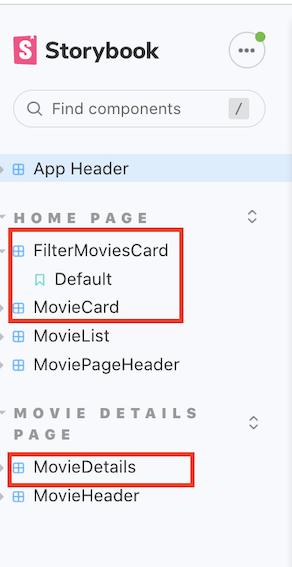
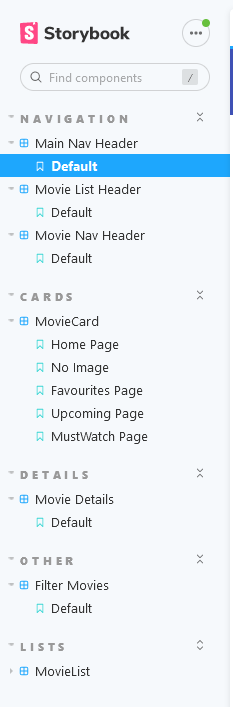
Updated readme and storybook

diff --git a/src/stories/Cards-movieCard.stories.js b/src/stories/Cards-movieCard.stories.js
@@ -1,16 +1,17 @@
 import React from "react";
 import MovieCard from "../components/movieCard";
-import SampleMovie from "./sampleData";
+import SampleMovie from "./sampleMovie";
 import { MemoryRouter } from "react-router";
 import MoviesContextProvider from "../contexts/moviesContext";
 import { action } from "@storybook/addon-actions";
 import AddToFavouritesIcon from "../components/cardIcons/addToFavourites";
 import AddToMustWatchIcon from "../components/cardIcons/addToMustWatch";
-import WriteReviewIcon from "../components/cardIcons/writeReview";
 import RemoveFromFavourites from "../components/cardIcons/removeFromFavourites";
+import MyReviewIcon from "../components/cardIcons/myReview";
+import RemoveFromMustWatch from "../components/cardIcons/removeFromMustWatch";
 
 export default {
-  title: "Home Page/MovieCard",
+  title: "Cards/MovieCard",
   component: MovieCard,
   decorators: [
     (Story) => <MemoryRouter initialEntries={["/"]}>{Story()}</MemoryRouter>,
@@ -27,7 +28,7 @@ export const HomePage = () => {
           <>
             <AddToFavouritesIcon movie={movie} />
             <AddToMustWatchIcon movie={movie} />
-            <WriteReviewIcon movie={movie} />
+            <MyReviewIcon movie={movie} />
           </>
         );
       }}
@@ -47,7 +48,7 @@ export const NoImage = () => {
           <>
             <AddToFavouritesIcon movie={movie} />
             <AddToMustWatchIcon movie={movie} />
-            <WriteReviewIcon movie={movie} />
+            <MyReviewIcon movie={movie} />
           </>
         );
       }}
@@ -65,7 +66,7 @@ export const FavouritesPage = () => {
         return (
           <>
             <RemoveFromFavourites movie={movie} />
-            <WriteReviewIcon movie={movie} />
+            <MyReviewIcon movie={movie} />
           </>
         );
       }}
@@ -91,3 +92,20 @@ export const UpcomingPage = () => {
   );
 };
 UpcomingPage.storyName = "Upcoming Page";
+
+export const MustWatchPage = () => {
+  return (
+    <MovieCard
+      movie={SampleMovie}
+      action={(movie) => {
+        return (
+          <>
+            <RemoveFromMustWatch movie={movie} />
+          </>
+        );
+      }}
+      taging={(movie) => null}
+    />
+  );
+};
+MustWatchPage.storyName = "MustWatch Page";

diff --git a/src/stories/Lists-MovieList.stories.js b/src/stories/Lists-MovieList.stories.js
@@ -1,14 +1,16 @@
 import React from "react";
 import MovieList from "../components/movieList";
-import SampleMovie from "./sampleData";
+import SampleMovie from "./sampleMovie";
 import { MemoryRouter } from "react-router";
 import { action } from "@storybook/addon-actions";
-import AddToFavoritesIcon from "../components/cardIcons/addToFavourites";
 import Grid from "@material-ui/core/Grid";
 import MoviesContextProvider from "../contexts/moviesContext";
+import AddToFavouritesIcon from "../components/cardIcons/addToFavourites";
+import AddToMustWatchIcon from "../components/cardIcons/addToMustWatch";
+import MyReviewIcon from "../components/cardIcons/myReview";
 
 export default {
-  title: "Home Page/MovieList",
+  title: "Lists/MovieList",
   component: MovieList,
   decorators: [
     (Story) => <MemoryRouter initialEntries={["/"]}>{Story()}</MemoryRouter>,
@@ -28,7 +30,15 @@ export const Basic = () => {
     <Grid container spacing={5}>
       <MovieList
         movies={movies}
-        action={(movie) => <AddToFavoritesIcon movie={movie} />}
+        action={(movie) => {
+          return (
+            <>
+              <AddToFavouritesIcon movie={movie} />
+              <AddToMustWatchIcon movie={movie} />
+              <MyReviewIcon movie={movie} />
+            </>
+          );
+        }}
       />
     </Grid>
   );

diff --git a/src/stories/Details-MovieDetails.stories.js b/src/stories/Details-MovieDetails.stories.js
@@ -1,11 +1,11 @@
 import React from "react";
 import MovieDetails from "../components/movieDetails";
-import SampleMovie from "./sampleData";
+import SampleMovie from "./sampleMovie";
 import { MemoryRouter } from "react-router";
 import MoviesContextProvider from "../contexts/moviesContext";
 
 export default {
-  title: "Movie Details Page/MovieDetails",
+  title: "Details/Movie Details",
   component: MovieDetails,
   decorators: [
     (Story) => <MemoryRouter initialEntries={["/"]}>{Story()}</MemoryRouter>,

diff --git a/src/stories/Nav-Movie.stories.js b/src/stories/Nav-Movie.stories.js
@@ -1,11 +1,11 @@
 import React from "react";
 import MovieHeader from "../components/headerMovie";
-import SampleMovie from "./sampleData";
+import SampleMovie from "./sampleMovie";
 import { MemoryRouter } from "react-router";
 import { action } from "@storybook/addon-actions";
 
 export default {
-  title: "Movie Details Page/MovieHeader",
+  title: "Navigation/Movie Nav Header",
   component: MovieHeader,
   decorators: [
     (Story) => <MemoryRouter initialEntries={["/"]}>{Story()}</MemoryRouter>,

diff --git a/src/stories/Nav-MovieList.stories.js b/src/stories/Nav-MovieList.stories.js
@@ -1,0 +1,15 @@
+import React from "react";
+import HeaderMovieList from "../components/headerMovieList";
+import { MemoryRouter } from "react-router";
+
+export default {
+  title: "Navigation/Movie List Header",
+  component: HeaderMovieList,
+  decorators: [
+    (Story) => <MemoryRouter initialEntries={["/"]}>{Story()}</MemoryRouter>,
+  ],
+};
+
+export const Basic = () => <HeaderMovieList title={"Title Here"}/>;
+
+Basic.storyName = "Default";

diff --git a/src/stories/Nav-Main.stories.js b/src/stories/Nav-Main.stories.js
@@ -3,7 +3,7 @@ import SiteHeader from "../components/siteHeader";
 import { MemoryRouter } from "react-router";
 
 export default {
-  title: "App Header",
+  title: "Navigation/Main Nav Header",
   component: SiteHeader,
   decorators: [
     (Story) => <MemoryRouter initialEntries={["/"]}>{Story()}</MemoryRouter>,

diff --git a/src/stories/Other-FilterMovies.stories.js b/src/stories/Other-FilterMovies.stories.js
@@ -15,7 +15,7 @@ const queryClient = new QueryClient({
 });
 
 export default {
-  title: "Home Page/FilterMoviesCard",
+  title: "Other/Filter Movies",
   component: FilterMoviesCard,
   decorators: [
     (Story) => <MemoryRouter initialEntries={["/"]}>{Story()}</MemoryRouter>,

diff --git a/README.md b/README.md
@@ -24,7 +24,9 @@ Features added:
 
 ## Setup requirements.
 
-Download repository of latest release here
+Node.js installed
+React installed
+Download repository
 
 ### Building
 ```
@@ -56,62 +58,61 @@ Below is a list of new routes which were added:
 
 ### Views/Pages.
 
-[ For each view in your app, show a screenshot and caption - only new/modified ones in the case of the Movies Fan app. If necessary, use multiple screenshots to cover a view's full capability.
+Views below:
 
-e.g.
->Lists movies from the Discover endpoint. Filtering on title and genre attributes is supported.
+![][h1]
 
-![][d1]
+![][h2]
 
-![][d2]
+>Home page showing new card format and new filtering
 
->Shows detailed information on a specific movie
+![][m1]
 
-![][detail]
+>Must watch page
 
+![][r1]
+
+![][r2]
+
+>There is now also my review pages
+
+![][c1]
+
+>Cast listing
+
+![][s1]
+
+>Similar Movies listing
 
 ### Component catalogue.
 
-[ Use the Storybook UI to highlight the new components for which you developed stories.]
-e.g.
+See storybook components list below:
 
 ![][stories]
 
 ## Caching.
 
-[ List the TMDB server state cached by the app. Include a screenshot(s) of the react-query dev tools to validate your list.]
+Below is a list of all items that are cached
 
-e.g.
-+ Discover movies (pagination support)
-+ Movie details
- + etc
-+ etc
++ Genres
++ Actor Images
++ Actor Details
++ Actors Credits
++ Movie Details
++ Movie Images
++ Discover Movies
++ Upcoming Movies
++ Movie Cast
++ Similar Movies
 
 ![][caching]
 
-## Authentication (if relevant).
-
-[Briefly state how you implemented authentication for the app, e.g. basic, Firebase, etc. Also, list the routes that are private/protected.]
-
-e.g.
-+ /reviews/:id
-+ /movies/favourites
-
-## Server-side persistence (if relevant)
-
-[ Specify the persistence 
-platform your app uses (e.g. TMDB lists, Firestore) and itemize the data it persists.]
-
-## Additional features (if relevant),
-
-[Mention any additional user features of your app that may not be obvious from the previous sections, e.g. pagination, extended filtering/sorting, searching.]
-
-## Independent learning (if relevant),
-
-[Briefly explain any aspects of your assignment work that required independent learning (i.e. not addressed in the lectures or labs) on your behalf., e.g. 3rd-party components, libraries, tools. Include source code references.]
-
-[d1]: ./public/discover1.png
-[d2]: ./public/discover2.png
-[detail]: ./public/detail.png
+[h1]: ./public/home.png
+[h2]: ./public/homeFiltered.png
+[m1]: ./public/mustWatch.png
+[r1]: ./public/myReviews.png
+[r2]: ./public/myReview.png
+[c1]: ./public/castInfo.png
+[s1]: ./public/similarMovies.png
 [caching]: ./public/caching.png
 [stories]: ./public/stories.png
